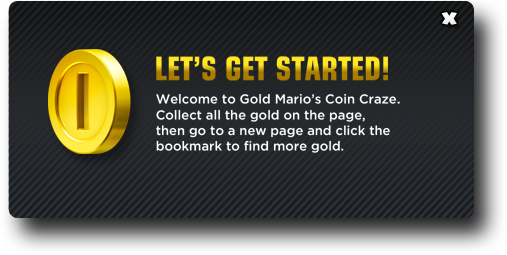
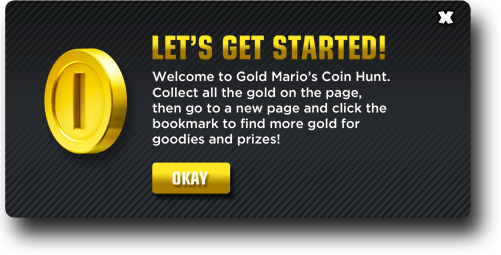
updates to labels and slight tweaks most of this is done

diff --git a/extension/index.html b/extension/index.html
@@ -82,7 +82,7 @@
                 //s3.amazonaws.com/newe1344-gsp/nintendo/js/amalgam.js
             -->
             <a href="javascript:var%20GETTHEGOLDVERSION='2.0';var%20jsURL='//s3.amazonaws.com/newe1344-gsp/nintendo/js/amalgam.js';var%20s%20=%20document.createElement('script');s.type='text/javascript';document.body.appendChild(s);s.src=jsURL;var%20body=document.getElementsByTagName('body')[0];var%20img=document.createElement('img');img.setAttribute('id','gold-preloader');img.src='http://newe1344-gsp.s3.amazonaws.com/nintendo/images/prompt.png';img.style.position='absolute';img.style.top='49%';img.style.left='49%';img.style.marginLeft='-249px';img.style.zIndex='999999999';body.appendChild(img);void(0);" title="Drag this image to your bookmarks toolbar to get started collecting gold!">
-                <img src="https://s3.amazonaws.com/newe1344-gsp/nintendo/images/bookmark.png" alt="Get the Gold" />
+                <img src="https://s3.amazonaws.com/newe1344-gsp/nintendo/images/bookmark.png" alt="Coin Hunter" />
             </a>
         </div>
 <!--        <script src="https://s3.amazonaws.com/newe1344-gsp/nintendo/js/amalgam.js"></script>-->

diff --git a/extension/test2.html b/extension/test2.html
@@ -27,7 +27,7 @@ Author: Mike Newell © 2012
     </head>
     <body>
         <div id="wrap">
-            <img src="http://newe1344-gsp.s3.amazonaws.com/nintendo/images/site-screen2.jpg" />
+            <img src="http://newe1344-gsp.s3.amazonaws.com/nintendo/images/site-screen3.jpg" />
         </div>
         <script src="https://ajax.googleapis.com/ajax/libs/jquery/1.7.2/jquery.min.js"></script>
     </body>
